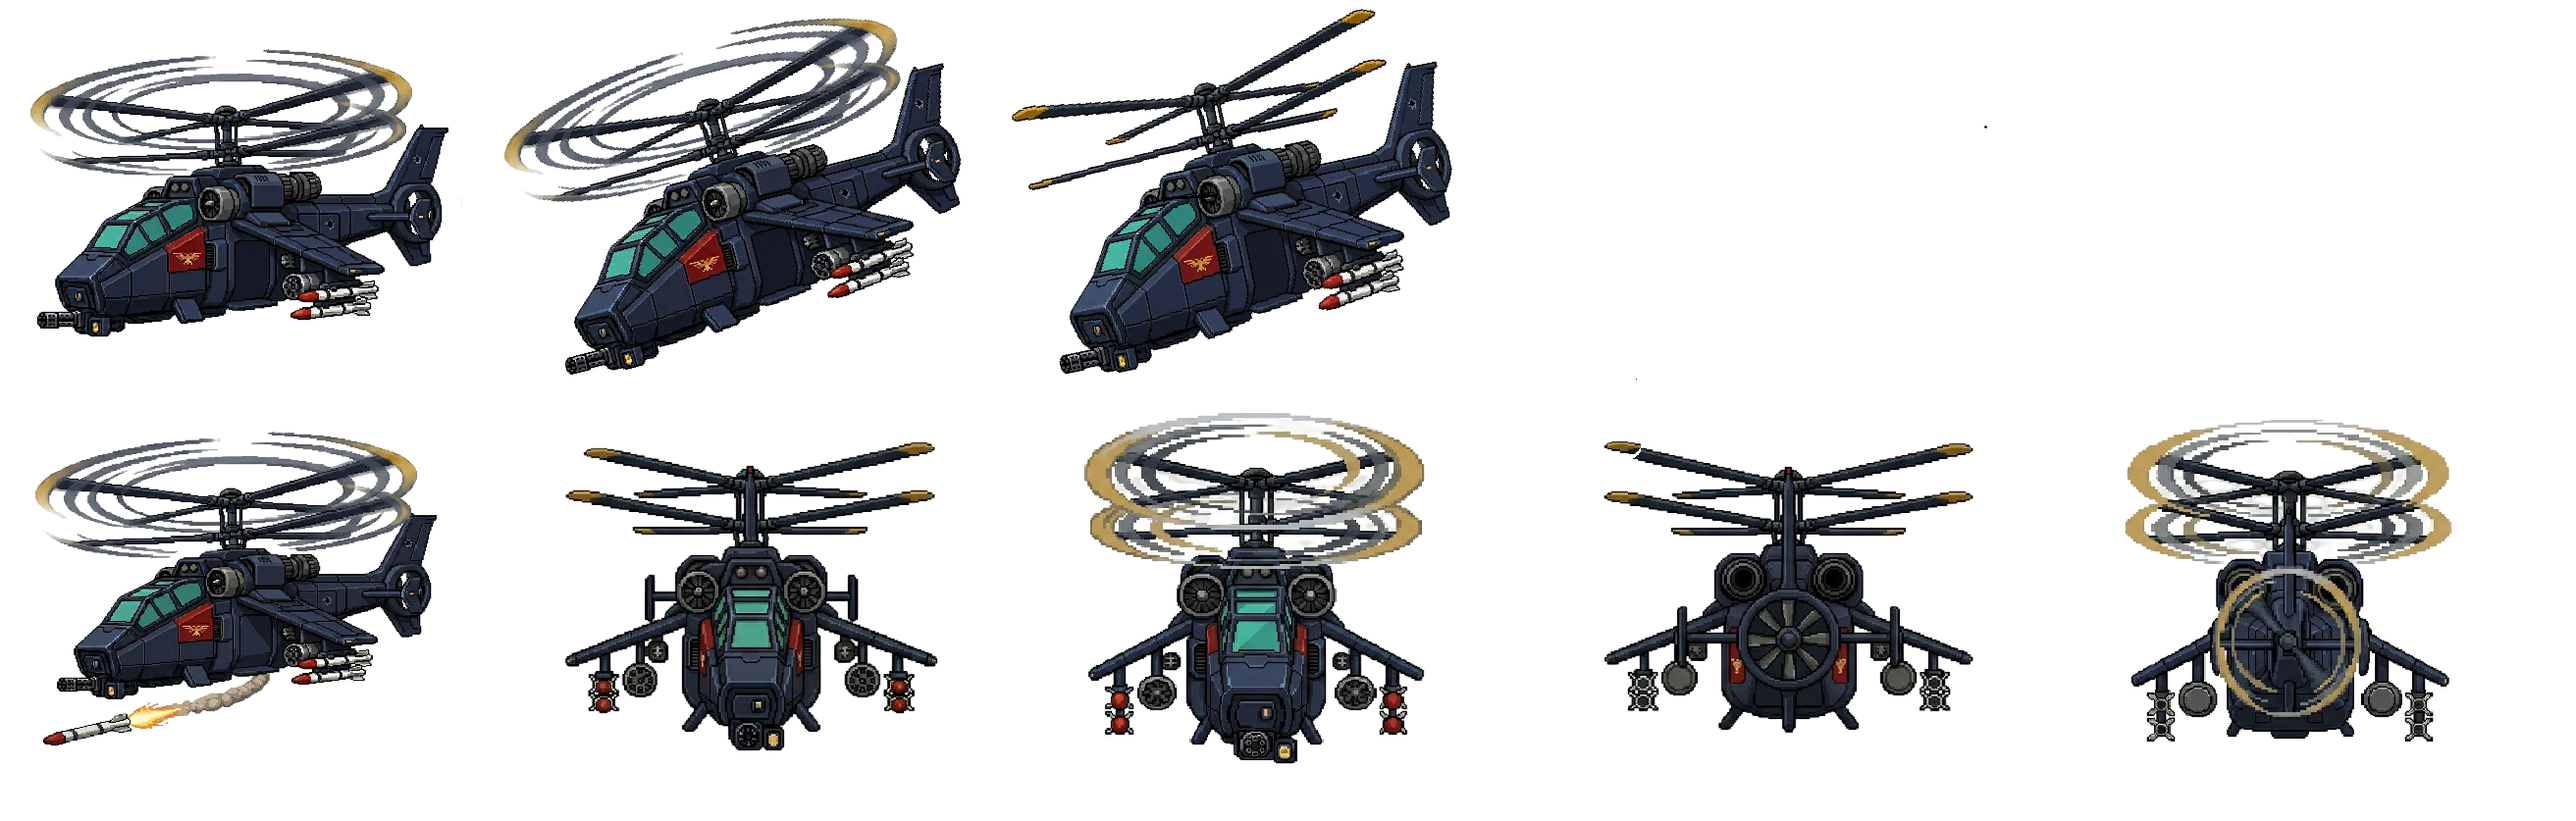
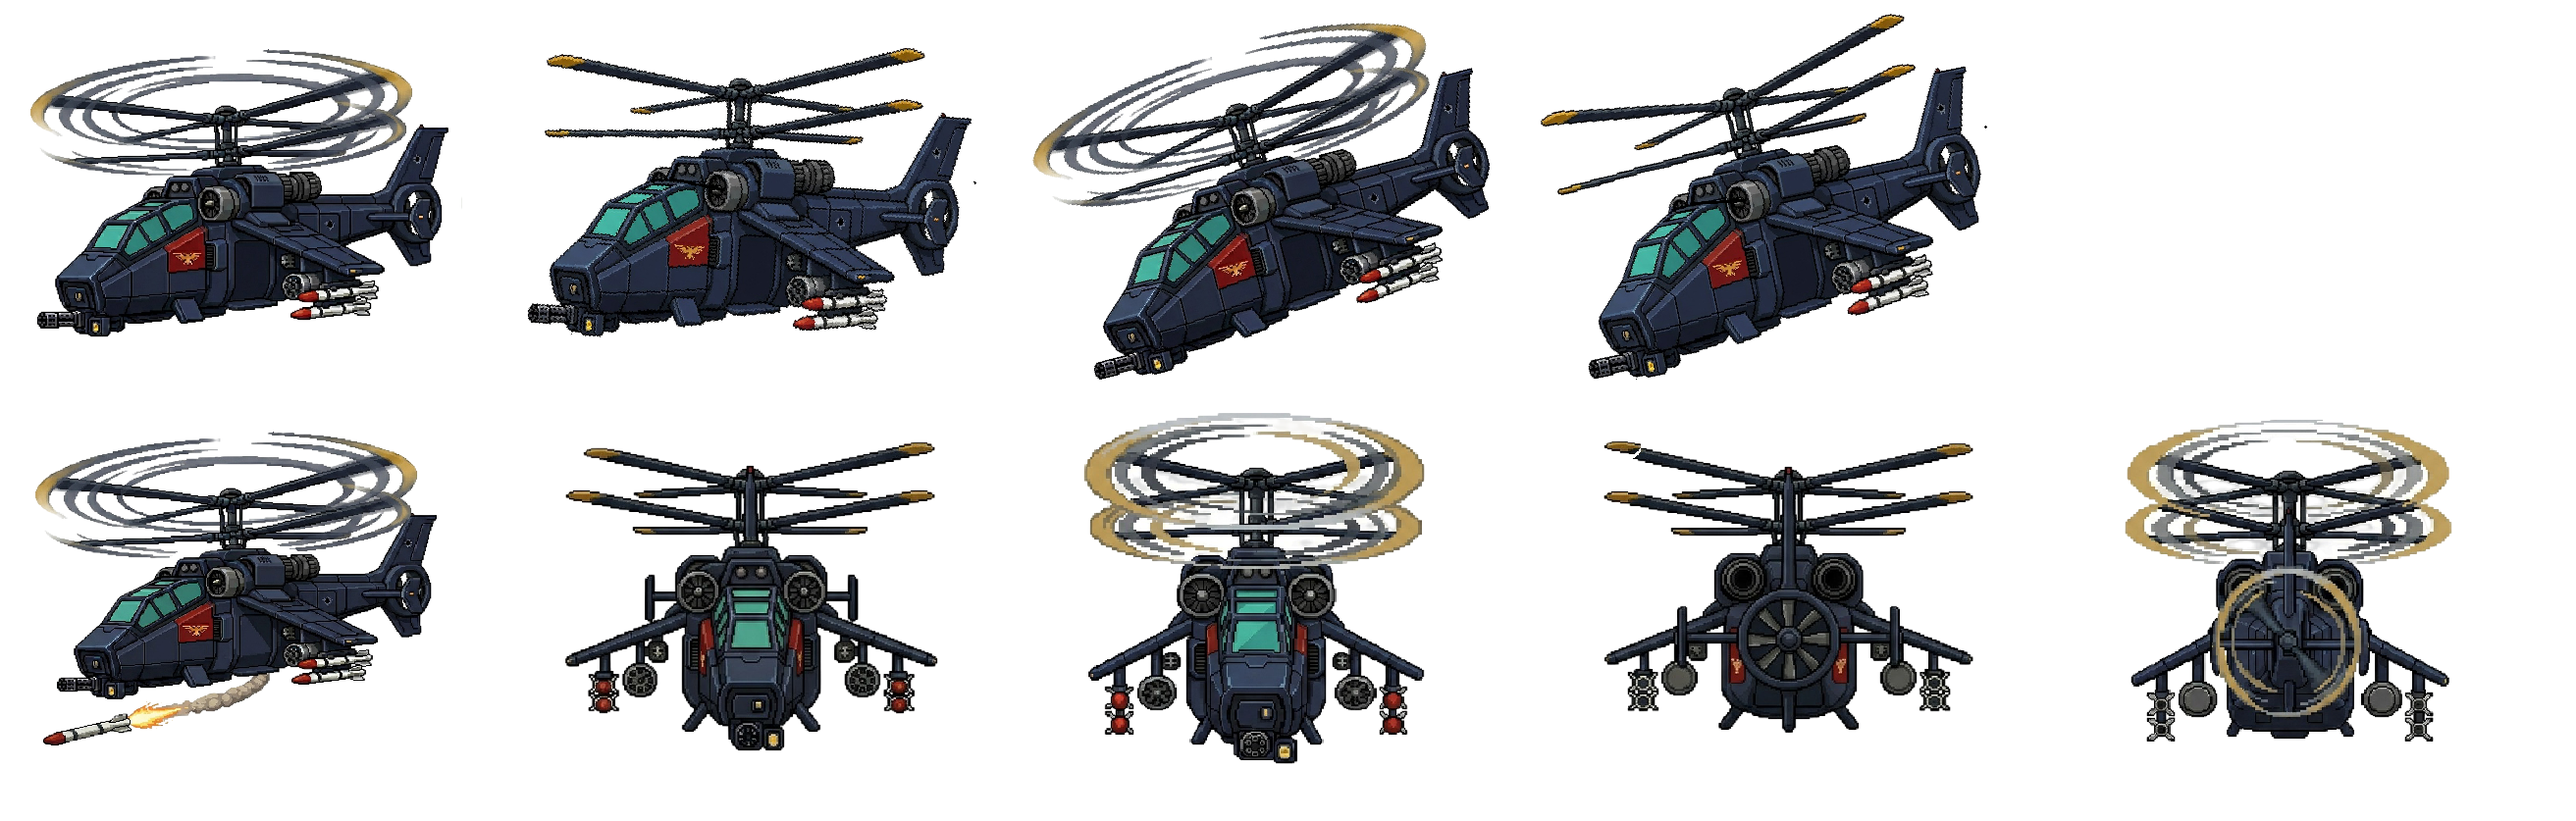
Arreglo bug Helicoptero oscilando

Changed region(s): [[0.1874, 0.0, 0.781, 0.4659]]

diff --git a/ARCHON_WARHAMMER 40K/src/ClaseHelicoptero.cpp b/ARCHON_WARHAMMER 40K/src/ClaseHelicoptero.cpp
@@ -66,47 +66,59 @@ void ClaseHelicoptero::actualizarIA(float dt, Arena& arena, Pieza* enemigo, std:
     sf::Vector2f posHeli = this->posicionAbsoluta;
     sf::Vector2f posEnemigo = enemigo->getPosicionAbsoluta();
 
-    // 1. MOVIMIENTO: Calcular vector hacia el enemigo
+    // 1. CÁLCULO DE DISTANCIA
     sf::Vector2f dir = posEnemigo - posHeli;
     float distancia = std::hypot(dir.x, dir.y);
-
     if (distancia != 0.f) dir /= distancia; // Normalizar vector
 
-    // Mantener una distancia prudencial de combate (ej: 180 píxeles)
-    sf::Vector2f dirMovimiento = dir;
-    if (distancia < 180.f) {
-        dirMovimiento = -dir; // Se aleja un poco para ametrallar desde el aire si el enemigo se acerca
+    float rangoIdeal = 180.f; // Distancia de ataque
+    float tolerancia = 8.f;   // Margen de 8px para evitar que oscile
+
+    sf::Vector2f dirMovimiento(0.f, 0.f);
+    bool moviendose = false;
+
+    // Lógica con Deadzone: Solo nos movemos si estamos fuera del rango de tolerancia
+    if (distancia > (rangoIdeal + tolerancia)) {
+        dirMovimiento = dir;        // Muy lejos: Avanzar
+        moviendose = true;
     }
-
-    float velocidadVuelo = 130.f;
-    sf::Vector2f desplazamiento = dirMovimiento * velocidadVuelo * dt;
-    sf::Vector2f nuevaPos = posHeli + desplazamiento;
-
-    // =========================================================================
-    // ¡CORRECCIÓN VOLADORA!: Ignoramos obstáculos internos de la arena
-    // Pasamos 'true' para indicarle a la arena que somos una unidad aérea.
-    // =========================================================================
-    if (arena.esPosicionValida(nuevaPos, 25.f, true)) {
-        this->posicionAbsoluta = nuevaPos;
-        this->animar(dt, dirMovimiento);
+    else if (distancia < (rangoIdeal - tolerancia)) {
+        dirMovimiento = -dir;       // Muy cerca: Retroceder
+        moviendose = true;
     }
     else {
-        // Si llega a tocar los bordes exteriores del mapa (límites de la pantalla), 
-        // se frena pero sigue reproduciendo la animación de flotar/quieto.
+        // DENTRO DE LA ZONA MUERTA: 
+        // El helicóptero se queda quieto, solo debe mirar al enemigo.
+        dirMovimiento = sf::Vector2f(0.f, 0.f);
+        moviendose = false;
+    }
+
+    // 2. MOVIMIENTO Y COLISIONES
+    if (moviendose) {
+        float velocidadVuelo = 130.f;
+        sf::Vector2f desplazamiento = dirMovimiento * velocidadVuelo * dt;
+        sf::Vector2f nuevaPos = posHeli + desplazamiento;
+
+        // Comprobación de límites (true = unidad aérea)
+        if (arena.esPosicionValida(nuevaPos, 25.f, true)) {
+            this->posicionAbsoluta = nuevaPos;
+            this->animar(dt, dirMovimiento);
+        }
+    }
+    else {
+        // Si no se mueve, llamamos a animar con vector 0 para que flote quieto
         this->animar(dt, sf::Vector2f(0.f, 0.f));
     }
 
-    // =========================================================================
-    // 2. DISPARO AUTOMÁTICO POR COOLDOWN
-    // =========================================================================
+    // 3. DISPARO AUTOMÁTICO POR COOLDOWN
     if (relojDisparoAuto.getElapsedTime().asSeconds() >= this->stats.velAtaque) {
+        // Disparamos siempre hacia la posición del enemigo
         sf::Vector2f dirBala = posEnemigo - this->posicionAbsoluta;
         float magBala = std::hypot(dirBala.x, dirBala.y);
         if (magBala != 0.f) dirBala /= magBala;
 
         sf::Vector2f spawnBala = this->posicionAbsoluta + (dirBala * 30.f);
 
-        // Instanciamos el proyectil en el contenedor global de Hitboxes
         hitboxes.emplace_back(
             spawnBala,
             dirBala,
@@ -121,7 +133,6 @@ void ClaseHelicoptero::actualizarIA(float dt, Arena& arena, Pieza* enemigo, std:
         relojDisparoAuto.restart();
     }
 }
-
 void ClaseHelicoptero::animar(float dt, sf::Vector2f direccion) {
     int fila = 0;
     int colInicial = 0;
@@ -140,8 +151,8 @@ void ClaseHelicoptero::animar(float dt, sf::Vector2f direccion) {
     else if (direccion.x != 0.f) {
         // SECUENCIA DE VUELO LATERAL (Fila 0, Columnas de la 1 a la 4)
         fila = 0;
-        colInicial = 1;
-        colFinal = 2;
+        colInicial = 2;
+        colFinal = 3;
     }
     else if (direccion.y > 0.f) {
         // FOTOGRAMA DE DESCENSO / ABAJO (Fila 1, Columna 3)
@@ -159,7 +170,7 @@ void ClaseHelicoptero::animar(float dt, sf::Vector2f direccion) {
         // FOTOGRAMA ESTÁTICO / QUIETO (Fila 0, Columna 0)
         fila = 0;
         colInicial = 0;
-        colFinal = 0;
+        colFinal = 1;
     }
 
     // 1. GESTIÓN DE CAMBIO DE FRAME / FILA
